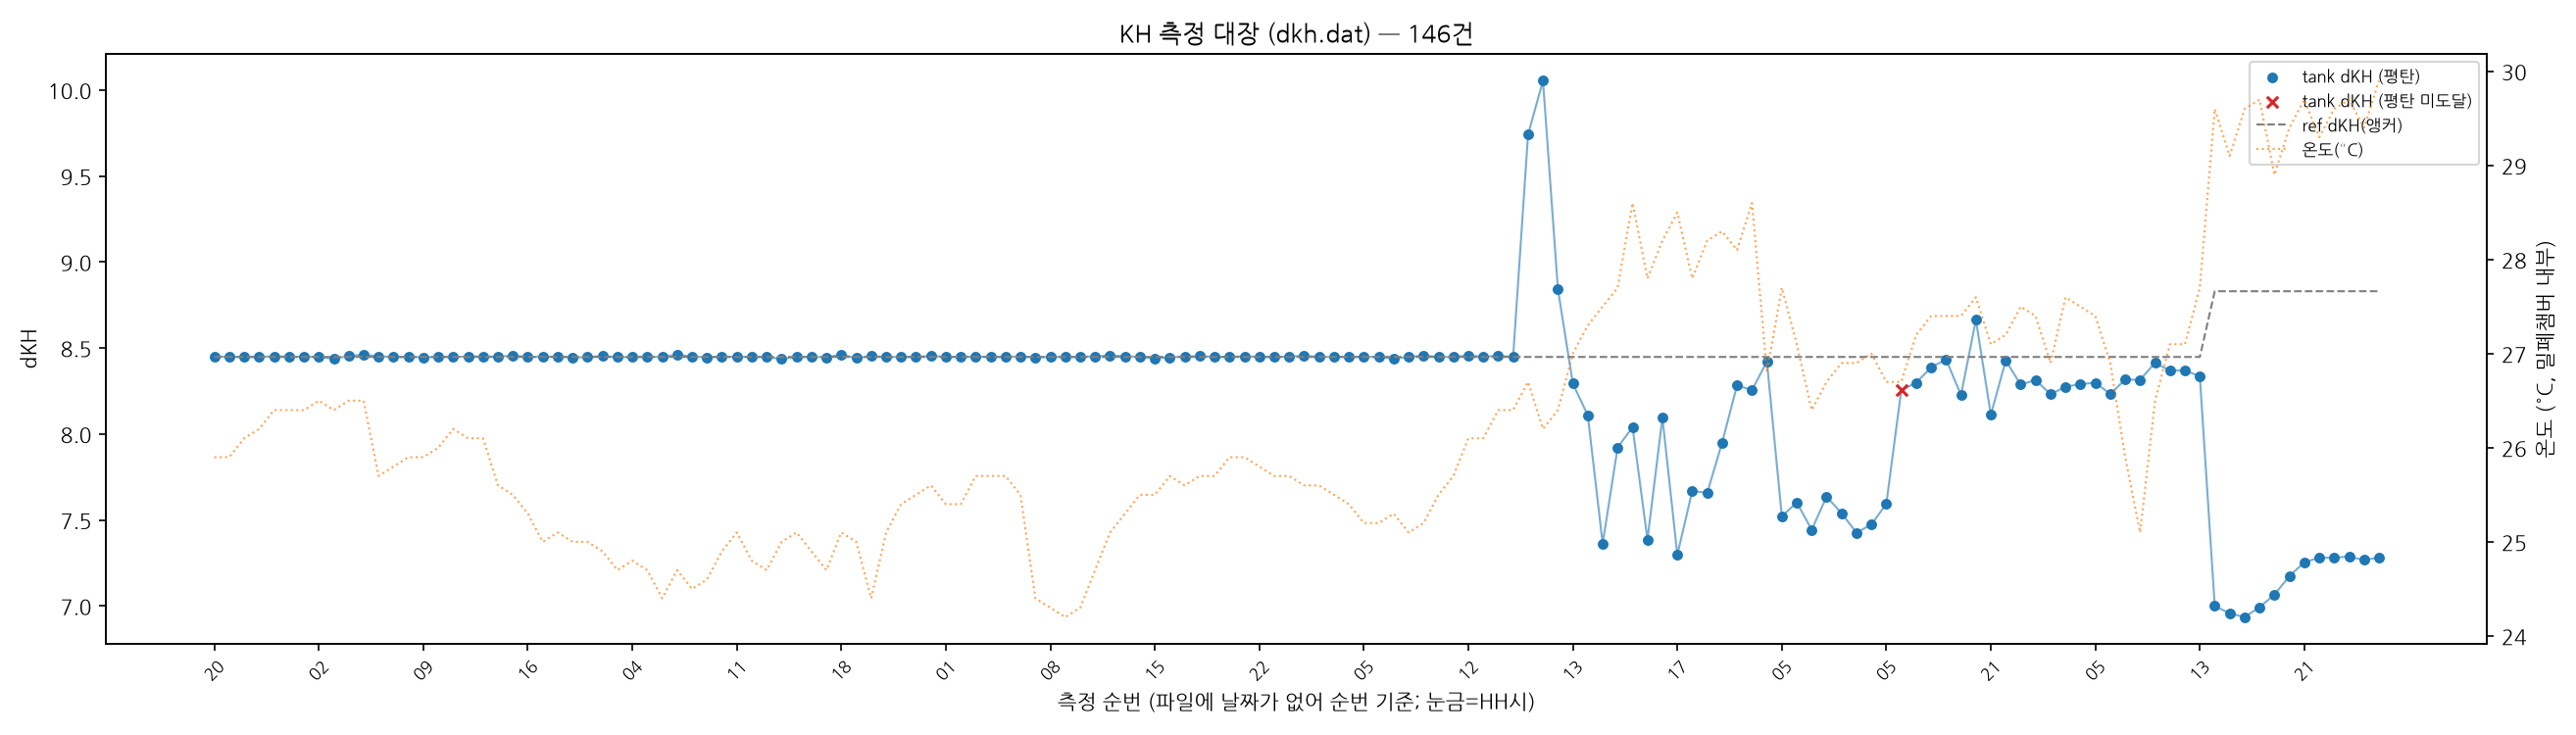
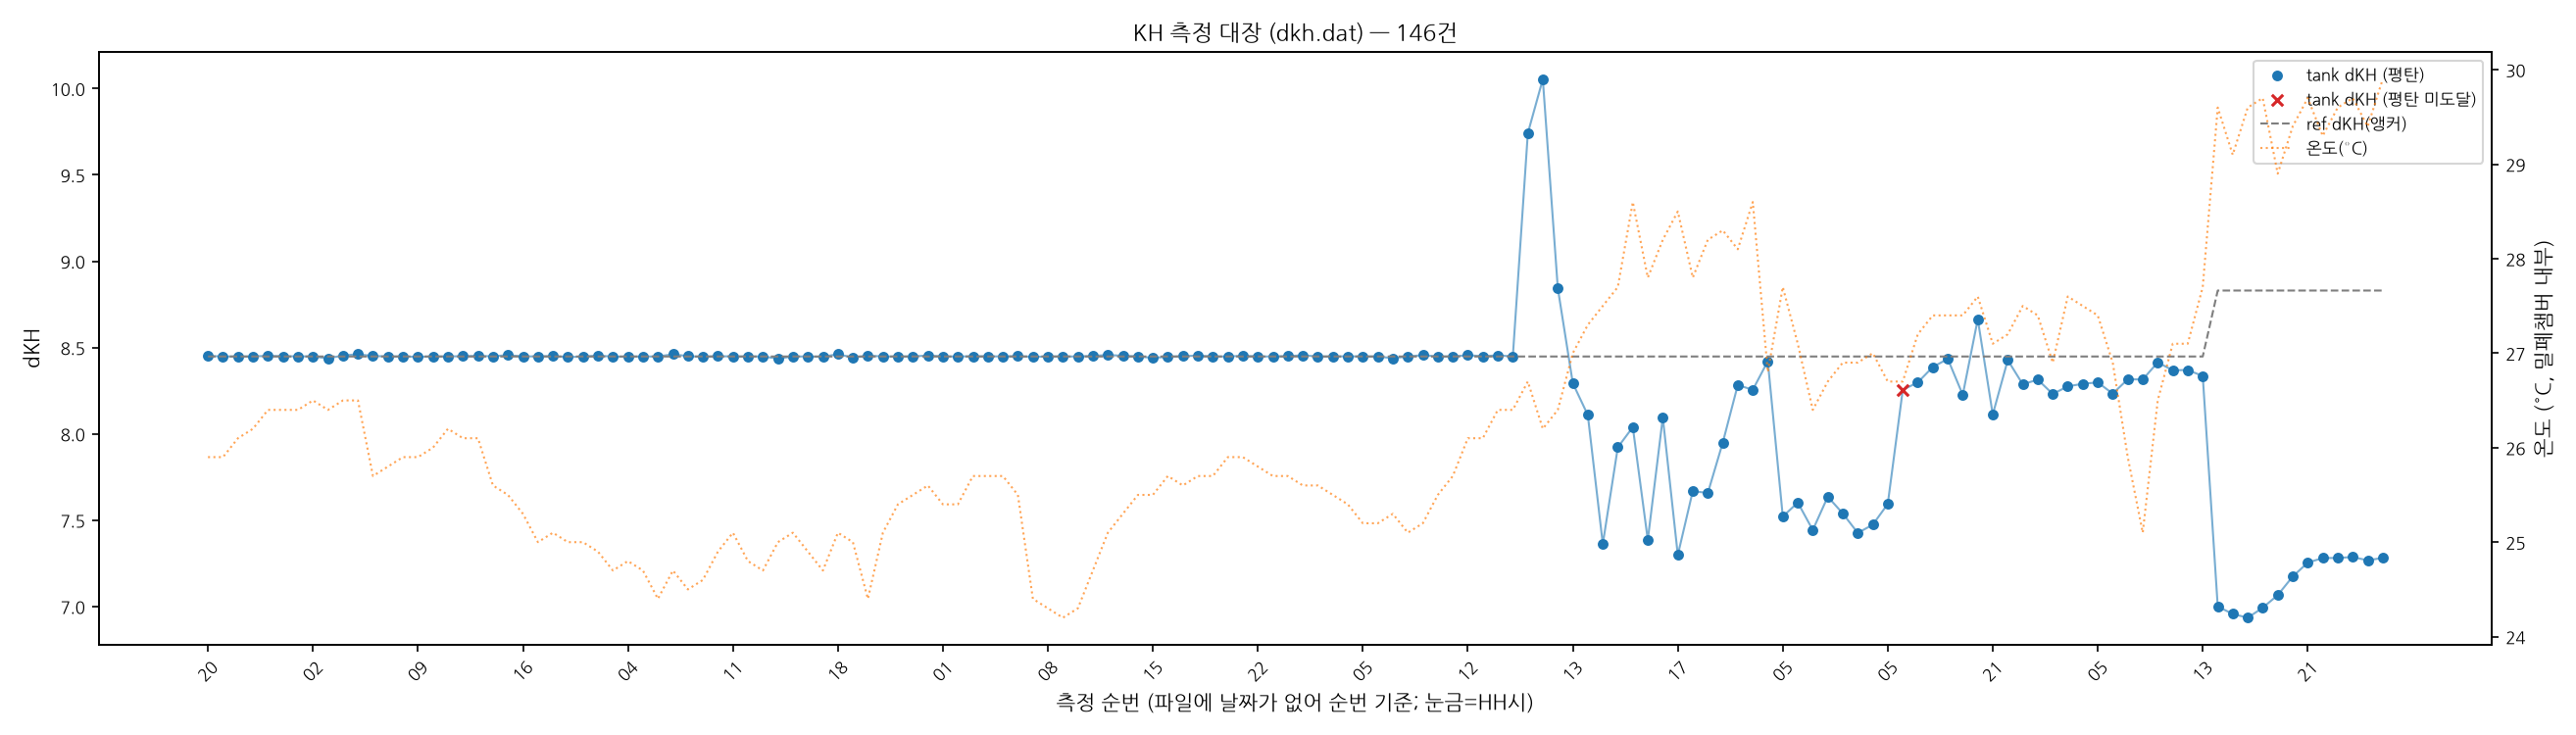
feat(pages): 설치 가능한 PWA 대시보드로 전환
docs/index.html을 직접 작성한 모바일 우선 대시보드로 교체(Jekyll 기본
index.md 대신) — 실시간 통계 카드(dkh_latest.json), 모바일용 축약 그래프
(최근 30건, 큰 글씨), 문서 링크. Web App Manifest + 서비스워커 + 아이콘
추가로 안드로이드 Chrome에서 "홈 화면에 추가"로 설치 가능. plot_dkh.py에
--recent/--mobile/--json 옵션 추가, Actions가 그래프 2종+최신값 JSON을
함께 커밋하도록 갱신.

diff --git a/docs/index.html b/docs/index.html
@@ -1,0 +1,175 @@
+<!doctype html>
+<html lang="ko">
+<head>
+<meta charset="utf-8">
+<meta name="viewport" content="width=device-width, initial-scale=1, viewport-fit=cover">
+<title>AquaWiz — dKH 대시보드</title>
+<meta name="description" content="산호 수조 dKH 자동 측정 결과 대시보드">
+<meta name="theme-color" content="#0d5a66">
+<link rel="manifest" href="manifest.webmanifest">
+<link rel="icon" href="icons/icon-192.png">
+<link rel="apple-touch-icon" href="icons/icon-192.png">
+<style>
+  :root {
+    --teal: #0d5a66;
+    --teal-dark: #093f48;
+    --teal-light: #12808f;
+    --bg: #f2f7f7;
+    --card: #ffffff;
+    --ink: #16323a;
+    --muted: #6b8790;
+    --danger: #c0392b;
+  }
+  * { box-sizing: border-box; }
+  body {
+    margin: 0;
+    font-family: -apple-system, BlinkMacSystemFont, "Segoe UI", "Apple SD Gothic Neo",
+      "Malgun Gothic", Roboto, sans-serif;
+    background: var(--bg);
+    color: var(--ink);
+    padding-bottom: 2.5rem;
+  }
+  header.hero {
+    background: linear-gradient(135deg, var(--teal) 0%, var(--teal-light) 100%);
+    color: #fff;
+    padding: 2.2rem 1.25rem 2.6rem;
+    text-align: center;
+    border-radius: 0 0 28px 28px;
+  }
+  header.hero img.logo {
+    width: 56px;
+    height: 56px;
+    border-radius: 14px;
+    box-shadow: 0 4px 14px rgba(0, 0, 0, 0.25);
+  }
+  header.hero h1 { margin: 0.6rem 0 0.2rem; font-size: 1.6rem; letter-spacing: -0.02em; }
+  header.hero p.tagline { margin: 0; opacity: 0.9; font-size: 0.92rem; }
+
+  main {
+    max-width: 640px;
+    margin: -1.6rem auto 0;
+    padding: 0 1rem;
+  }
+
+  section.stats {
+    display: grid;
+    grid-template-columns: repeat(3, 1fr);
+    gap: 0.6rem;
+    margin-bottom: 0.9rem;
+  }
+  .stat-card {
+    background: var(--card);
+    border-radius: 16px;
+    padding: 0.9rem 0.5rem;
+    text-align: center;
+    box-shadow: 0 6px 18px rgba(13, 90, 102, 0.12);
+  }
+  .stat-card .label { display: block; font-size: 0.72rem; color: var(--muted); margin-bottom: 0.3rem; }
+  .stat-card .value { display: block; font-size: 1.25rem; font-weight: 700; color: var(--teal-dark); }
+  .stat-card .value.not-flat { color: var(--danger); }
+
+  p.updated {
+    text-align: center;
+    color: var(--muted);
+    font-size: 0.82rem;
+    margin: 0 0 1.1rem;
+  }
+
+  section.graph-card {
+    background: var(--card);
+    border-radius: 18px;
+    padding: 0.8rem;
+    box-shadow: 0 6px 18px rgba(13, 90, 102, 0.12);
+    margin-bottom: 1.2rem;
+  }
+  section.graph-card img.graph {
+    width: 100%;
+    height: auto;
+    border-radius: 10px;
+    display: block;
+  }
+
+  nav.doc-links {
+    display: grid;
+    grid-template-columns: 1fr 1fr;
+    gap: 0.6rem;
+  }
+  nav.doc-links a {
+    background: var(--card);
+    color: var(--teal-dark);
+    text-decoration: none;
+    font-size: 0.88rem;
+    font-weight: 600;
+    padding: 0.85rem 0.9rem;
+    border-radius: 14px;
+    box-shadow: 0 4px 12px rgba(13, 90, 102, 0.08);
+    display: flex;
+    align-items: center;
+  }
+  nav.doc-links a:active { transform: scale(0.98); }
+
+  footer {
+    text-align: center;
+    margin-top: 1.6rem;
+    font-size: 0.8rem;
+  }
+  footer a { color: var(--muted); text-decoration: none; }
+</style>
+</head>
+<body>
+  <header class="hero">
+    <img class="logo" src="icons/icon-192.png" alt="">
+    <h1>AquaWiz</h1>
+    <p class="tagline">산호 수조 dKH 자동 측정 대시보드</p>
+  </header>
+
+  <main>
+    <section class="stats">
+      <div class="stat-card"><span class="label">수조 dKH</span><span class="value" id="tankKh">–</span></div>
+      <div class="stat-card"><span class="label">기준(ref)</span><span class="value" id="refKh">–</span></div>
+      <div class="stat-card"><span class="label">온도</span><span class="value" id="temp">–</span></div>
+    </section>
+    <p class="updated" id="updated">최신값 불러오는 중…</p>
+
+    <section class="graph-card">
+      <img class="graph" src="images/dkh_trend_mobile.png" alt="dKH 추세 그래프">
+    </section>
+
+    <nav class="doc-links">
+      <a href="measurement-ledger.html">📒 측정 대장</a>
+      <a href="user-manual.html">📘 사용 설명서</a>
+      <a href="system-setup.html">🛠️ 자동화 구성</a>
+      <a href="parts-list.html">🧰 준비물 목록</a>
+      <a href="reefcore-integration.html">🔗 reefCore 연동</a>
+      <a href="bt-reconnect-and-testing.html">📶 블루투스 재연결</a>
+      <a href="notes/README.html">🧪 연구 노트</a>
+      <a href="https://github.com/taeseokyi/reefwiz">💻 GitHub 저장소</a>
+    </nav>
+  </main>
+
+  <footer>
+    <a href="https://github.com/taeseokyi/reefwiz">github.com/taeseokyi/reefwiz</a>
+  </footer>
+
+<script>
+  if ("serviceWorker" in navigator) {
+    navigator.serviceWorker.register("sw.js").catch(() => {});
+  }
+
+  fetch("dkh_latest.json", { cache: "no-store" })
+    .then((r) => r.json())
+    .then((d) => {
+      document.getElementById("tankKh").textContent = d.tank_kh.toFixed(3);
+      document.getElementById("refKh").textContent = d.ref_kh.toFixed(3);
+      document.getElementById("temp").textContent = d.temp.toFixed(1) + "°C";
+      const tankEl = document.getElementById("tankKh");
+      if (!d.is_flat) tankEl.classList.add("not-flat");
+      document.getElementById("updated").textContent =
+        "최근 측정 " + d.hh + "시" + (d.is_flat ? "" : " · 평탄 미도달");
+    })
+    .catch(() => {
+      document.getElementById("updated").textContent = "최신값을 불러오지 못했습니다";
+    });
+</script>
+</body>
+</html>

diff --git a/docs/sw.js b/docs/sw.js
@@ -1,0 +1,46 @@
+const CACHE = "aquawiz-v1";
+const SHELL = [
+  "./",
+  "./index.html",
+  "./manifest.webmanifest",
+  "./icons/icon-192.png",
+  "./icons/icon-512.png",
+];
+
+self.addEventListener("install", (event) => {
+  event.waitUntil(caches.open(CACHE).then((c) => c.addAll(SHELL)));
+  self.skipWaiting();
+});
+
+self.addEventListener("activate", (event) => {
+  event.waitUntil(
+    caches.keys().then((keys) =>
+      Promise.all(keys.filter((k) => k !== CACHE).map((k) => caches.delete(k)))
+    )
+  );
+  self.clients.claim();
+});
+
+// 그래프/최신값은 네트워크 우선(최신 반영) + 실패 시 캐시(오프라인 대비).
+// 나머지(앱 셸)는 캐시 우선.
+self.addEventListener("fetch", (event) => {
+  const url = new URL(event.request.url);
+  const isLiveData = url.pathname.includes("dkh_trend") || url.pathname.endsWith("dkh_latest.json");
+
+  if (isLiveData) {
+    event.respondWith(
+      fetch(event.request)
+        .then((res) => {
+          const copy = res.clone();
+          caches.open(CACHE).then((c) => c.put(event.request, copy));
+          return res;
+        })
+        .catch(() => caches.match(event.request))
+    );
+    return;
+  }
+
+  event.respondWith(
+    caches.match(event.request).then((cached) => cached || fetch(event.request))
+  );
+});

diff --git a/bin/plot_dkh.py b/bin/plot_dkh.py
@@ -9,6 +9,7 @@ dkh.dat 형식(공백 구분, 한 줄에 하나): HH ref_pH tank_pH ref_kh tank_
     타임스탬프와 대조해야 한다(이 파일만으로는 복원 불가).
 """
 import argparse
+import json
 import sys
 
 import matplotlib
@@ -37,11 +38,12 @@ def load(path):
     return rows
 
 
-def plot(rows, out_path):
+def plot(rows, out_path, mobile=False):
     if not rows:
         print("표시할 데이터가 없습니다(전부 에러 표식이거나 파일이 비어있음).", file=sys.stderr)
         sys.exit(1)
 
+    total = len(rows)
     idx = list(range(len(rows)))
     hh = [r[0] for r in rows]
     ref_kh = [r[1] for r in rows]
@@ -50,35 +52,57 @@ def plot(rows, out_path):
     flat_idx = [i for i, r in enumerate(rows) if r[4]]
     not_flat_idx = [i for i, r in enumerate(rows) if not r[4]]
 
-    fig, ax1 = plt.subplots(figsize=(max(8, len(rows) * 0.12), 5))
+    if mobile:
+        fig, ax1 = plt.subplots(figsize=(6.4, 4.6), dpi=200)
+        fs_tick, fs_label, fs_legend, fs_title = 11, 12, 10, 13
+        marker_s, not_flat_s = 26, 45
+    else:
+        fig, ax1 = plt.subplots(figsize=(max(8, total * 0.12), 5), dpi=150)
+        fs_tick, fs_label, fs_legend, fs_title = 8, 10, 8, 11
+        marker_s, not_flat_s = 18, 30
 
     ax1.plot(idx, tank_kh, "-", color="tab:blue", linewidth=1, alpha=0.6, zorder=1)
     ax1.scatter([idx[i] for i in flat_idx], [tank_kh[i] for i in flat_idx],
-                color="tab:blue", label="tank dKH (평탄)", zorder=2, s=18)
+                color="tab:blue", label="tank dKH (평탄)", zorder=2, s=marker_s)
     if not_flat_idx:
         ax1.scatter([idx[i] for i in not_flat_idx], [tank_kh[i] for i in not_flat_idx],
-                    color="tab:red", marker="x", label="tank dKH (평탄 미도달)", zorder=3, s=30)
+                    color="tab:red", marker="x", label="tank dKH (평탄 미도달)", zorder=3, s=not_flat_s)
     ax1.plot(idx, ref_kh, "--", color="tab:gray", linewidth=1, label="ref dKH(앵커)")
 
-    ax1.set_ylabel("dKH")
-    ax1.set_xlabel("측정 순번 (파일에 날짜가 없어 순번 기준; 눈금=HH시)")
+    ax1.set_ylabel("dKH", fontsize=fs_label)
+    xlabel = "최근 측정 (눈금=HH시)" if mobile else "측정 순번 (파일에 날짜가 없어 순번 기준; 눈금=HH시)"
+    ax1.set_xlabel(xlabel, fontsize=fs_label)
+    ax1.tick_params(axis="both", labelsize=fs_tick)
 
-    step = max(1, len(rows) // 20)
+    n_ticks = 6 if mobile else 20
+    step = max(1, len(rows) // n_ticks)
     ax1.set_xticks(idx[::step])
-    ax1.set_xticklabels([f"{hh[i]:02d}" for i in idx[::step]], rotation=45, fontsize=8)
+    ax1.set_xticklabels([f"{hh[i]:02d}" for i in idx[::step]], rotation=45, fontsize=fs_tick)
 
     ax2 = ax1.twinx()
     ax2.plot(idx, temp, ":", color="tab:orange", linewidth=1, alpha=0.7, label="온도(°C)")
-    ax2.set_ylabel("온도 (°C, 밀폐챔버 내부)")
+    ax2.set_ylabel("온도 (°C, 밀폐챔버 내부)", fontsize=fs_label)
+    ax2.tick_params(axis="y", labelsize=fs_tick)
 
     h1, l1 = ax1.get_legend_handles_labels()
     h2, l2 = ax2.get_legend_handles_labels()
-    ax1.legend(h1 + h2, l1 + l2, loc="best", fontsize=8)
+    ax1.legend(h1 + h2, l1 + l2, loc="best", fontsize=fs_legend)
 
-    ax1.set_title(f"KH 측정 대장 (dkh.dat) — {len(rows)}건")
+    title = f"최근 dKH 추세 (최근 {total}건)" if mobile else f"KH 측정 대장 (dkh.dat) — {total}건"
+    ax1.set_title(title, fontsize=fs_title)
     fig.tight_layout()
-    fig.savefig(out_path, dpi=150)
+    fig.savefig(out_path, dpi=fig.dpi)
     print(f"저장: {out_path}")
+
+
+def write_latest_json(rows, path):
+    hh, ref_kh, tank_kh, temp, is_flat = rows[-1]
+    with open(path, "w") as f:
+        json.dump({
+            "hh": hh, "ref_kh": ref_kh, "tank_kh": tank_kh,
+            "temp": temp, "is_flat": is_flat, "count": len(rows),
+        }, f, ensure_ascii=False)
+    print(f"저장: {path}")
 
 
 if __name__ == "__main__":
@@ -86,7 +110,15 @@ if __name__ == "__main__":
     ap.add_argument("dat_file", nargs="?", default="/mnt/c/dkh/work/dkh.dat",
                      help="dkh.dat 경로 (기본: Windows 원본, WSL에서 /mnt/c 경유)")
     ap.add_argument("-o", "--out", default="dkh_trend.png", help="출력 PNG 경로")
+    ap.add_argument("--json", default=None, help="최신 측정값 JSON 출력 경로(옵션, 대시보드용)")
+    ap.add_argument("--recent", type=int, default=None,
+                     help="마지막 N건만 그린다(옵션, 모바일 대시보드용 요약 차트)")
+    ap.add_argument("--mobile", action="store_true",
+                     help="작은 화면에 맞춘 큰 글씨·고정 비율로 렌더링")
     args = ap.parse_args()
 
     rows = load(args.dat_file)
-    plot(rows, args.out)
+    plot_rows = rows[-args.recent:] if args.recent else rows
+    plot(plot_rows, args.out, mobile=args.mobile)
+    if args.json:
+        write_latest_json(rows, args.json)

diff --git a/README.md b/README.md
@@ -1,6 +1,7 @@
 # AquaWiz - 고정밀 pH/dKH 자동 측정 시스템
 
 🌐 **실시간 측정 그래프:** https://taeseokyi.github.io/reefwiz/
+(안드로이드 Chrome에서 열어 메뉴 → **홈 화면에 추가**를 누르면 앱처럼 설치됩니다)
 
 > **:warning: 경고:** 이 프로젝트의 하드웨어, 소프트웨어, 문서는 **어떠한 공식 검증도 거치지 않았습니다.** 측정 정확도, 전기적 안전성, 장기 신뢰성에 대한 보증이 없으며, 사용으로 발생하는 모든 결과(장비 손상, 생물 피해, 화재, 감전 등)에 대한 **책임은 전적으로 사용자 본인**에게 있습니다.
 